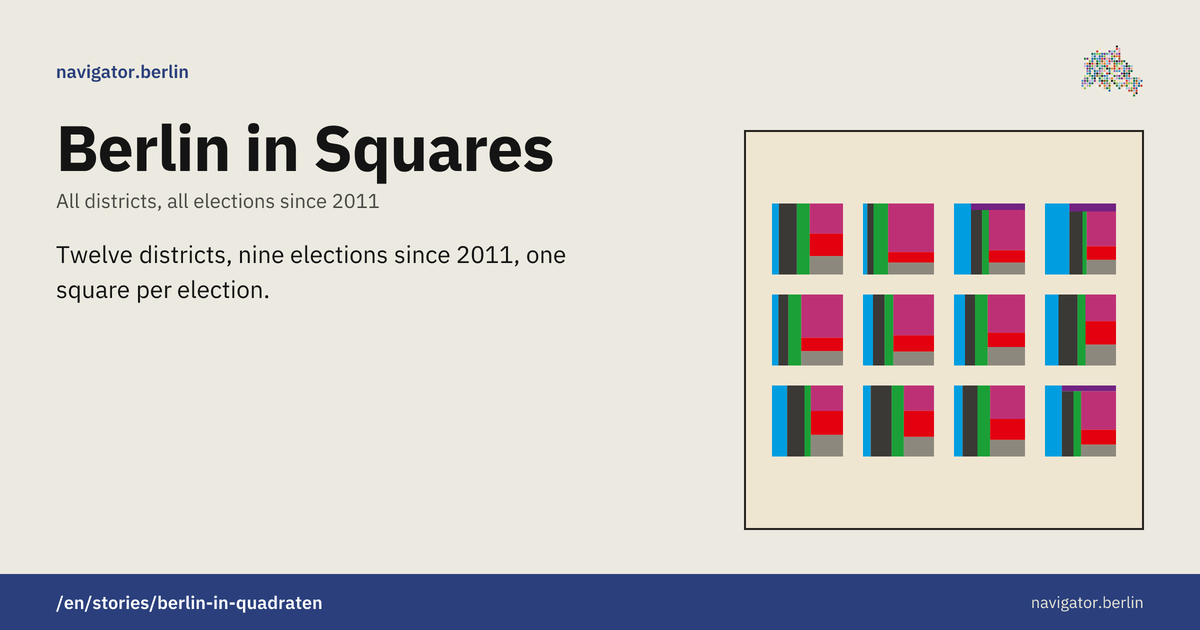
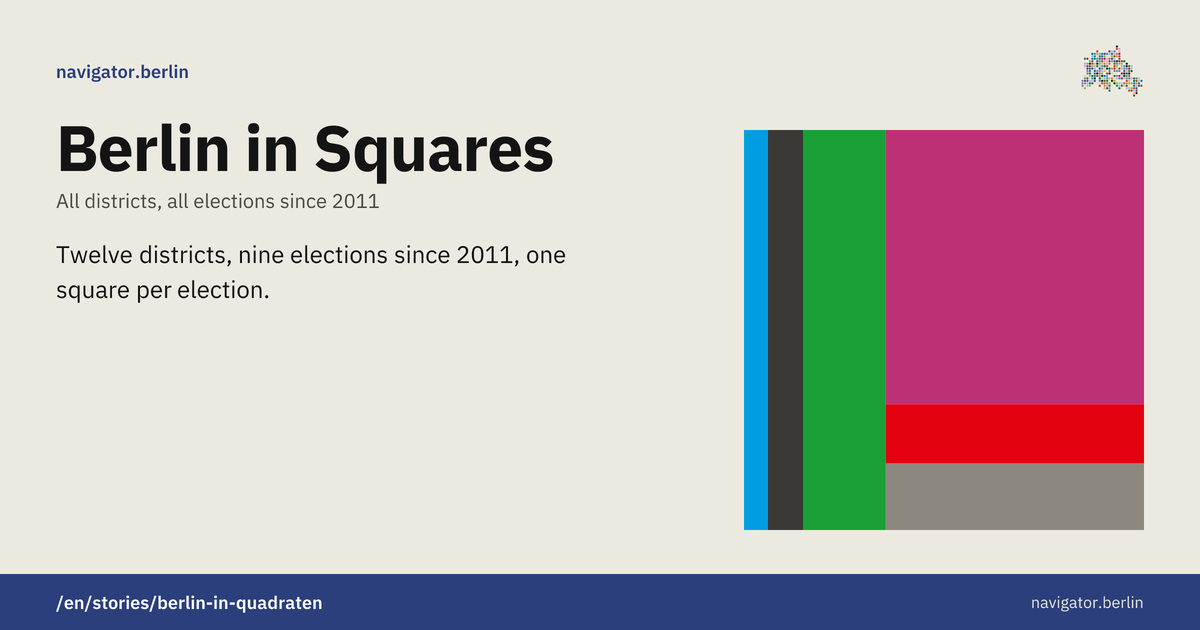
Use a single square as preview and OG motif (#190)
Claude-Session: https://claude.ai/code/session_01YRnNFsm88haW4vNFRzbEiu

Changed region(s): [[0.6167, 0.181, 0.9558, 0.8444]]

diff --git a/src/lib/stories/wahl-quadrate/og-komposition.ts b/src/lib/stories/wahl-quadrate/og-komposition.ts
@@ -1,52 +1,39 @@
 /**
- * Komposition für die OG-Karte des Beitrags „Berlin in Quadraten“ im Site-Layout
- * (`scripts/generate-og-images.ts`), wie die Komposition von „Punkt, Linie, Kiez“ auf der
- * Stories-Karte: Papier mit Rahmen, darin die zwölf Bezirke bei der Abgeordnetenhauswahl
- * 2026 als Quadrate, alphabetisch, ohne Zahlen.
+ * Motiv für OG-Karte und Übersichts-Miniatur von „Berlin in Quadraten“: ein einzelnes
+ * Quadrat, Friedrichshain-Kreuzberg bei der Abgeordnetenhauswahl 2026 wie in Kapitel 1.
+ * Ohne Zahlen, weil der OG-Renderer Jost im eingebetteten SVG nicht kennt.
  */
-import { STORY_INK, STORY_PAPER } from '../tokens';
-import { bezirkeAlphabetisch, wahlenOf } from './bilddaten';
-import { toElectionShares } from './eingabe';
 import { colorsInOrder } from './farben';
+import { toElectionShares } from './eingabe';
 import { derive, sharesOf } from './grau';
 import { layout, SIDE } from './layout';
+import { wahlenOf } from './bilddaten';
 import type { StoriesWahlData } from './types';
 
-const COLS = 4;
-const ROWS = 3;
+const BEZIRK = 'friedrichshain-kreuzberg';
 const f = (n: number): string => (Math.round(n * 100) / 100).toString();
 
-/** Anteile je Block für die zwölf Bezirke bei der Abgeordnetenhauswahl 2026, alphabetisch. */
-export function vorschauShares(data: StoriesWahlData): number[][] {
+/** Anteile je Block für das Motiv. */
+export function vorschauShares(data: StoriesWahlData): number[] {
 	const wahl = wahlenOf('agh').at(-1)!;
-	return bezirkeAlphabetisch(data).map((b) =>
-		sharesOf(derive(toElectionShares(b.wahlen[wahl.slug])))
-	);
+	const b = data.bezirke.find((x) => x.slug === BEZIRK);
+	if (!b) throw new Error(`stories-wahl.json: ${BEZIRK} fehlt`);
+	return sharesOf(derive(toElectionShares(b.wahlen[wahl.slug])));
 }
 
+/** Das Quadrat als SVG, füllt `size` × `size` ganz. */
 export function ogKompositionSvg(data: StoriesWahlData, size: number): string {
 	const colors = colorsInOrder();
-	const pad = size * 0.07;
-	const gap = size * 0.05;
-	const sq = (size - 2 * pad - (COLS - 1) * gap) / COLS;
-	const top = (size - ROWS * sq - (ROWS - 1) * gap) / 2;
-	const squares = vorschauShares(data).map((shares, i) => {
-		const x = pad + (i % COLS) * (sq + gap);
-		const y = top + Math.floor(i / COLS) * (sq + gap);
-		const blocks = layout(shares);
-		const rects = blocks
-			.map((r, k) =>
-				r.w > 0 && r.h > 0
-					? `<rect x="${f(r.x)}" y="${f(r.y)}" width="${f(r.w)}" height="${f(r.h)}" fill="${colors[k]}"/>`
-					: ''
-			)
-			.join('');
-		return `<g transform="translate(${f(x)} ${f(y)}) scale(${f(sq / SIDE)})">${rects}</g>`;
-	});
+	const rects = layout(vorschauShares(data))
+		.map((r, k) =>
+			r.w > 0 && r.h > 0
+				? `<rect x="${f(r.x)}" y="${f(r.y)}" width="${f(r.w)}" height="${f(r.h)}" fill="${colors[k]}"/>`
+				: ''
+		)
+		.join('');
 	return (
 		`<svg xmlns="http://www.w3.org/2000/svg" width="${size}" height="${size}" viewBox="0 0 ${size} ${size}">` +
-		`<rect x="1" y="1" width="${size - 2}" height="${size - 2}" fill="${STORY_PAPER}" stroke="${STORY_INK}" stroke-width="2"/>` +
-		squares.join('') +
+		`<g transform="scale(${f(size / SIDE)})">${rects}</g>` +
 		`</svg>`
 	);
 }

diff --git a/src/lib/components/stories/quadrate/vorschau.svelte b/src/lib/components/stories/quadrate/vorschau.svelte
@@ -1,43 +1,36 @@
 <!--
-	Miniatur von „Berlin in Quadraten“ für die Übersicht und den Startseiten-Teaser: die zwölf
-	Bezirke als Quadrate ohne Zahlen, auf Papier mit Rahmen wie die Komposition von „Punkt,
-	Linie, Kiez“. Dekorativ, der Titel-Link trägt den Namen.
+	Miniatur von „Berlin in Quadraten“ für die Übersicht und den Startseiten-Teaser: ein
+	Quadrat ohne Zahlen, dasselbe Motiv wie die OG-Karte. Dekorativ, der Titel-Link trägt
+	den Namen.
 -->
 <script lang="ts">
 	import { colorsInOrder } from '$lib/stories/wahl-quadrate/farben';
 	import { layout, SIDE } from '$lib/stories/wahl-quadrate/layout';
-	import { STORY_INK, STORY_PAPER } from '$lib/stories/tokens';
 
 	interface Props {
-		readonly shares: readonly (readonly number[])[];
+		readonly shares: readonly number[];
 		readonly size?: number;
 	}
 
 	let { shares, size = 112 }: Props = $props();
 
-	const COLS = 4;
-	const ROWS = 3;
 	const colors = colorsInOrder();
-	const pad = $derived(size * 0.08);
-	const gap = $derived(size * 0.05);
-	const sq = $derived((size - 2 * pad - (COLS - 1) * gap) / COLS);
-	const top = $derived((size - ROWS * sq - (ROWS - 1) * gap) / 2);
-	const blocks = $derived(shares.map((s) => layout(s)));
+	const blocks = $derived(layout(shares));
 </script>
 
-<svg width={size} height={size} viewBox="0 0 {size} {size}" aria-hidden="true" focusable="false">
-	<rect x="0.5" y="0.5" width={size - 1} height={size - 1} fill={STORY_PAPER} stroke={STORY_INK} />
-	{#each blocks as bs, i (i)}
-		<g
-			data-testid="bq-vorschau-quadrat"
-			transform="translate({pad + (i % COLS) * (sq + gap)} {top +
-				Math.floor(i / COLS) * (sq + gap)}) scale({sq / SIDE})"
-		>
-			{#each bs as r, k (k)}
-				{#if r.w > 0 && r.h > 0}
-					<rect x={r.x} y={r.y} width={r.w} height={r.h} fill={colors[k]} />
-				{/if}
-			{/each}
-		</g>
-	{/each}
+<svg
+	width={size}
+	height={size}
+	viewBox="0 0 {SIDE} {SIDE}"
+	aria-hidden="true"
+	focusable="false"
+	shape-rendering="crispEdges"
+>
+	<g data-testid="bq-vorschau-quadrat">
+		{#each blocks as r, k (k)}
+			{#if r.w > 0 && r.h > 0}
+				<rect x={r.x} y={r.y} width={r.w} height={r.h} fill={colors[k]} />
+			{/if}
+		{/each}
+	</g>
 </svg>

diff --git a/src/lib/components/stories/story-entry.svelte b/src/lib/components/stories/story-entry.svelte
@@ -17,13 +17,13 @@
 		readonly entry: StoryEntry;
 		/** Bezirk für die Miniatur. Sie erscheint nur, wenn der Beitrag `preview` setzt. */
 		readonly preview: BezirkItem | null;
-		/** Anteile der zwölf Quadrate für „Berlin in Quadraten“ (`preview: berlin-in-quadraten`). */
-		readonly quadrate?: readonly (readonly number[])[] | null;
+		/** Anteile des Quadrats für „Berlin in Quadraten“ (`preview: berlin-in-quadraten`). */
+		readonly quadrat?: readonly number[] | null;
 		/** Überschriftenebene: 2 auf der Übersicht, 3 unter einer Teaser-Überschrift. */
 		readonly headingLevel?: 2 | 3;
 	}
 
-	const { entry, preview, quadrate = null, headingLevel = 2 }: Props = $props();
+	const { entry, preview, quadrat = null, headingLevel = 2 }: Props = $props();
 	const kind = $derived(entry.frontmatter.preview);
 
 	const locale = $derived(getLocale());
@@ -37,7 +37,7 @@
 	data-testid="stories-entry"
 	data-slug={entry.slug}
 >
-	{#if kind === 'berlin-in-quadraten' && quadrate}
+	{#if kind === 'berlin-in-quadraten' && quadrat}
 		<a
 			{href}
 			tabindex="-1"
@@ -45,7 +45,7 @@
 			class="block shrink-0"
 			data-testid="stories-entry-preview"
 		>
-			<QuadrateVorschau shares={quadrate} size={112} />
+			<QuadrateVorschau shares={quadrat} size={112} />
 		</a>
 	{:else if kind === 'punkt-linie-kiez-bezirke' && preview}
 		<a

diff --git a/src/lib/content/stories/story-teaser.server.ts b/src/lib/content/stories/story-teaser.server.ts
@@ -9,12 +9,12 @@ export interface StoryTeaserData {
 	readonly entries: readonly StoryEntry[];
 	/** Bezirk für die Miniaturen. `null`, wenn kein Beitrag `preview` setzt. */
 	readonly preview: BezirkItem | null;
-	/** Anteile der zwölf Quadrate für die Miniatur von „Berlin in Quadraten“, sonst `null`. */
-	readonly quadrate?: readonly (readonly number[])[] | null;
+	/** Anteile des Quadrats für die Miniatur von „Berlin in Quadraten“, sonst `null`. */
+	readonly quadrat?: readonly number[] | null;
 }
 
 /** Miniatur-Daten je `preview`-Wert, nur geladen, wenn ein Beitrag sie braucht. */
-export function quadrateFor(entries: readonly StoryEntry[]): number[][] | null {
+export function quadratFor(entries: readonly StoryEntry[]): number[] | null {
 	return entries.some((e) => e.frontmatter.preview === 'berlin-in-quadraten')
 		? vorschauShares(loadStoriesWahl())
 		: null;
@@ -40,6 +40,6 @@ export function loadStoryTeaser(limit = 3): StoryTeaserData {
 	return {
 		entries,
 		preview: wantsPreview ? (teaserBezirke()[0] ?? null) : null,
-		quadrate: quadrateFor(entries)
+		quadrat: quadratFor(entries)
 	};
 }

diff --git a/src/routes/(with-header)/stories/+page.server.ts b/src/routes/(with-header)/stories/+page.server.ts
@@ -1,6 +1,6 @@
 import type { PageServerLoad } from './$types';
 import { loadStoriesFromModules } from '$lib/content/stories/load-stories.js';
-import { quadrateFor } from '$lib/content/stories/story-teaser.server.js';
+import { quadratFor } from '$lib/content/stories/story-teaser.server.js';
 import { teaserBezirke } from '$lib/stories/punkt-linie-kiez/bezirke-daten.server.js';
 import type { BezirkItem } from '$lib/stories/punkt-linie-kiez/types.js';
 import type { StoryEntry } from '$lib/content/stories/types.js';
@@ -41,6 +41,6 @@ export const load: PageServerLoad = async () => {
 	return {
 		entries,
 		preview: wantsPreview ? loadPreview() : null,
-		quadrate: quadrateFor(entries)
+		quadrat: quadratFor(entries)
 	};
 };

diff --git a/src/routes/(with-header)/stories/+page.svelte b/src/routes/(with-header)/stories/+page.svelte
@@ -71,7 +71,7 @@
 			data-testid="stories-list"
 		>
 			{#each data.entries as entry (entry.slug)}
-				<StoryEntryItem {entry} preview={data.preview} quadrate={data.quadrate} />
+				<StoryEntryItem {entry} preview={data.preview} quadrat={data.quadrat} />
 			{/each}
 		</ul>
 	{:else}

diff --git a/src/lib/components/home/home-stories-teaser.svelte b/src/lib/components/home/home-stories-teaser.svelte
@@ -37,7 +37,7 @@
 				<StoryEntryItem
 					{entry}
 					preview={stories.preview}
-					quadrate={stories.quadrate}
+					quadrat={stories.quadrat}
 					headingLevel={3}
 				/>
 			{/each}
